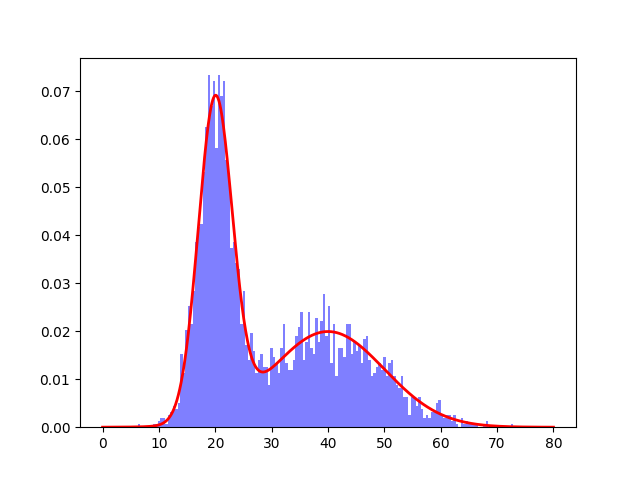
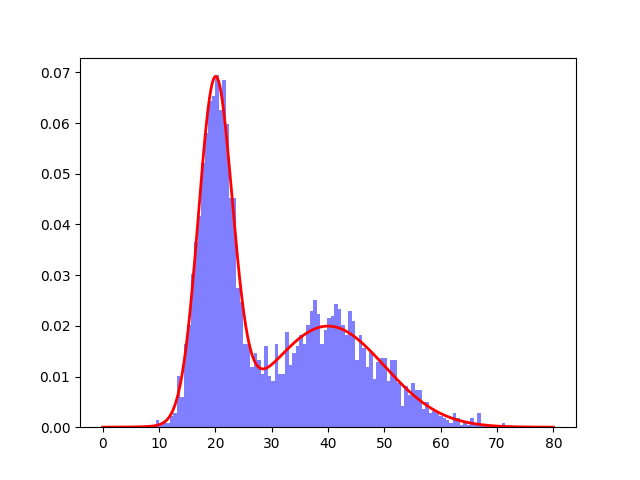
rejection sampling histogram update

diff --git a/Distribution_Sampling/rejection_sampling.py b/Distribution_Sampling/rejection_sampling.py
@@ -30,11 +30,11 @@ iterations = 20000
 samples = rejection_sampling(iterations)
 print(len(samples))
 # Plot the histogram of samples
-plt.hist(samples, bins=150, density=True, alpha=0.5, color='b', label='Samples')
+plt.hist(samples, bins=100, density=True, alpha=0.5, color='b', label='Samples')
 
 # Plot the target distribution
 x = np.linspace(0, 80, 1000)
 plt.plot(x, target_distribution(x), 'r-', linewidth=2, label='Target Distribution')
 
-plt.show()
-# plt.savefig('../images/rejection_sampling.png')
+# plt.show()
+plt.savefig('../images/rejection_sampling.png')
